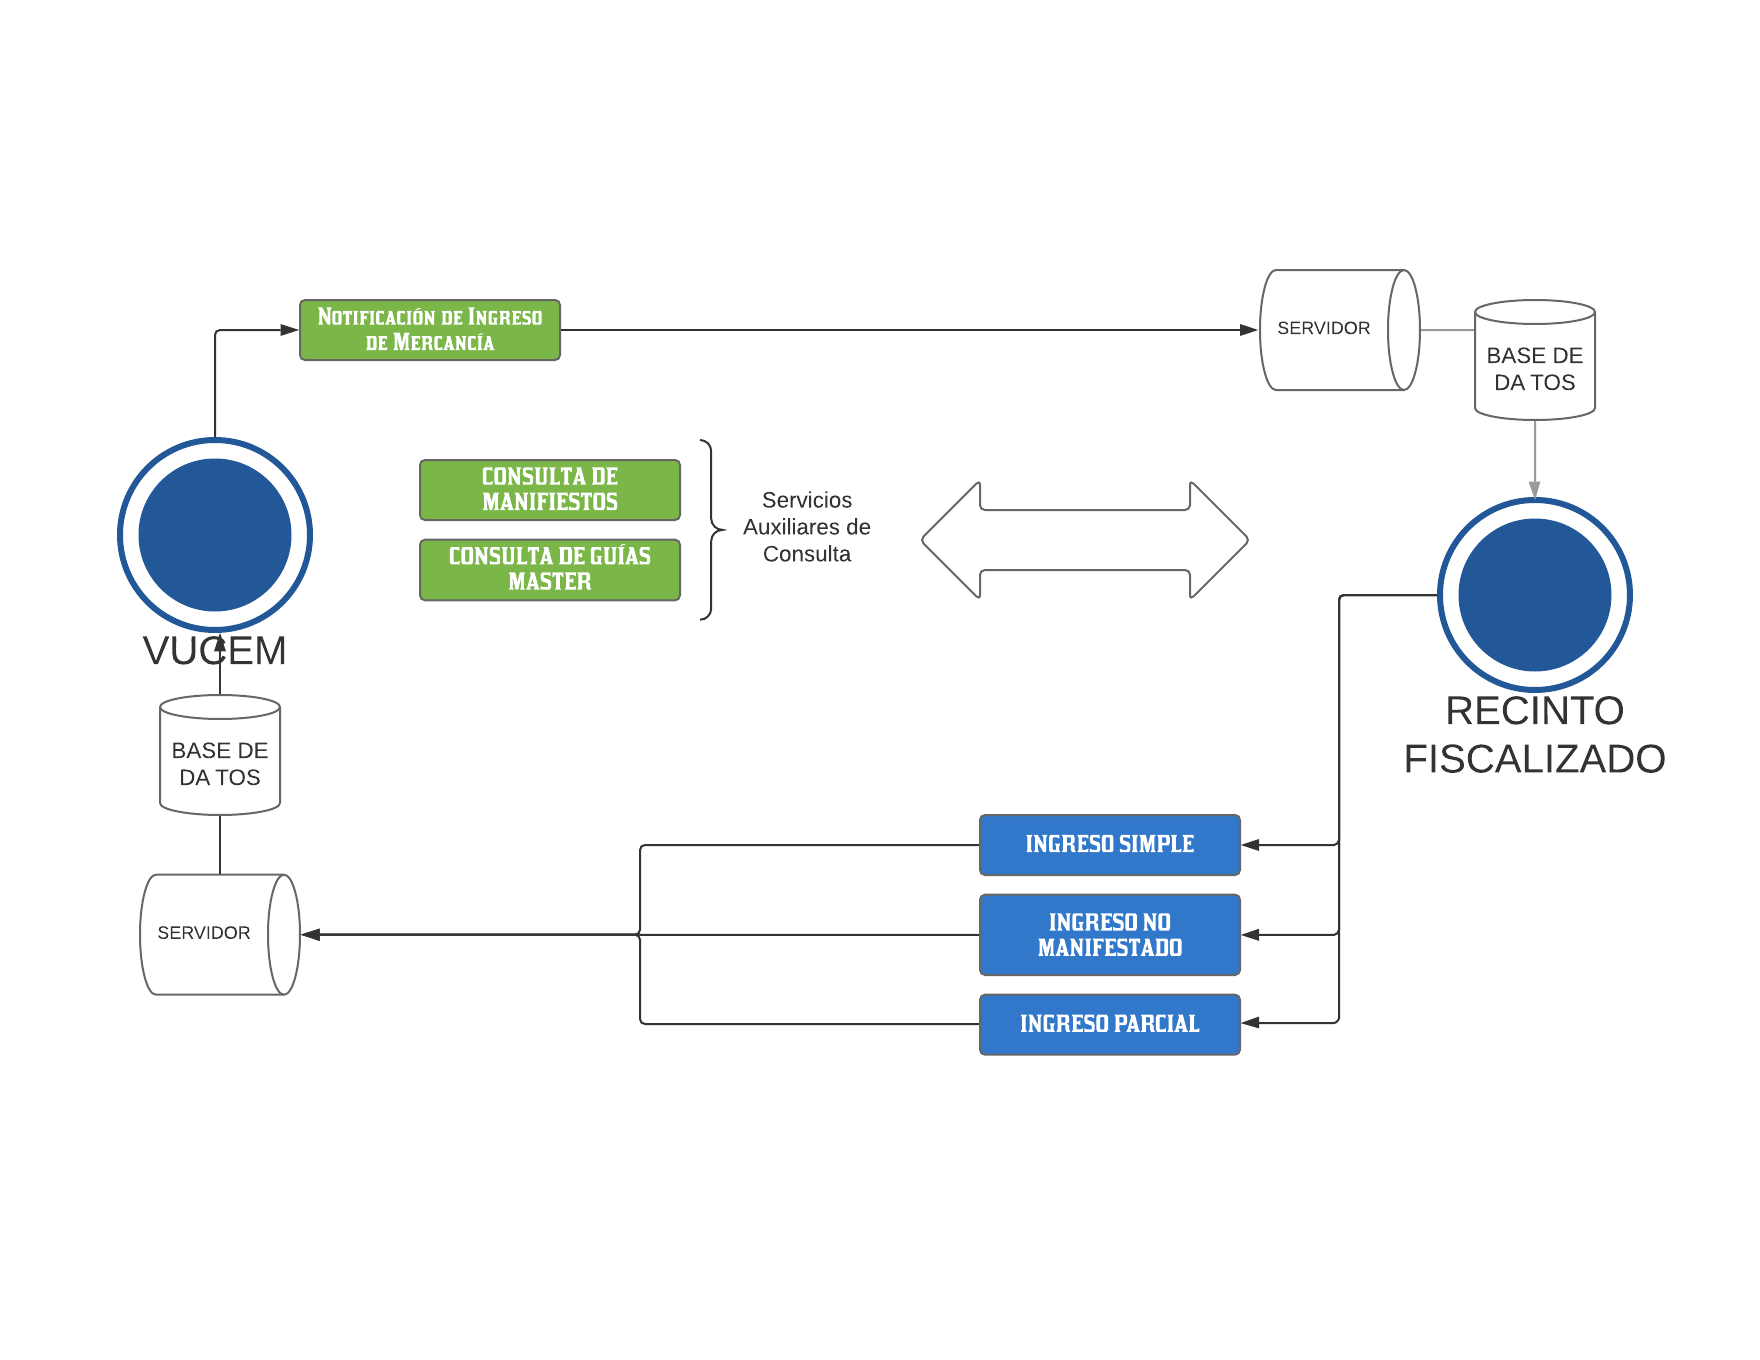
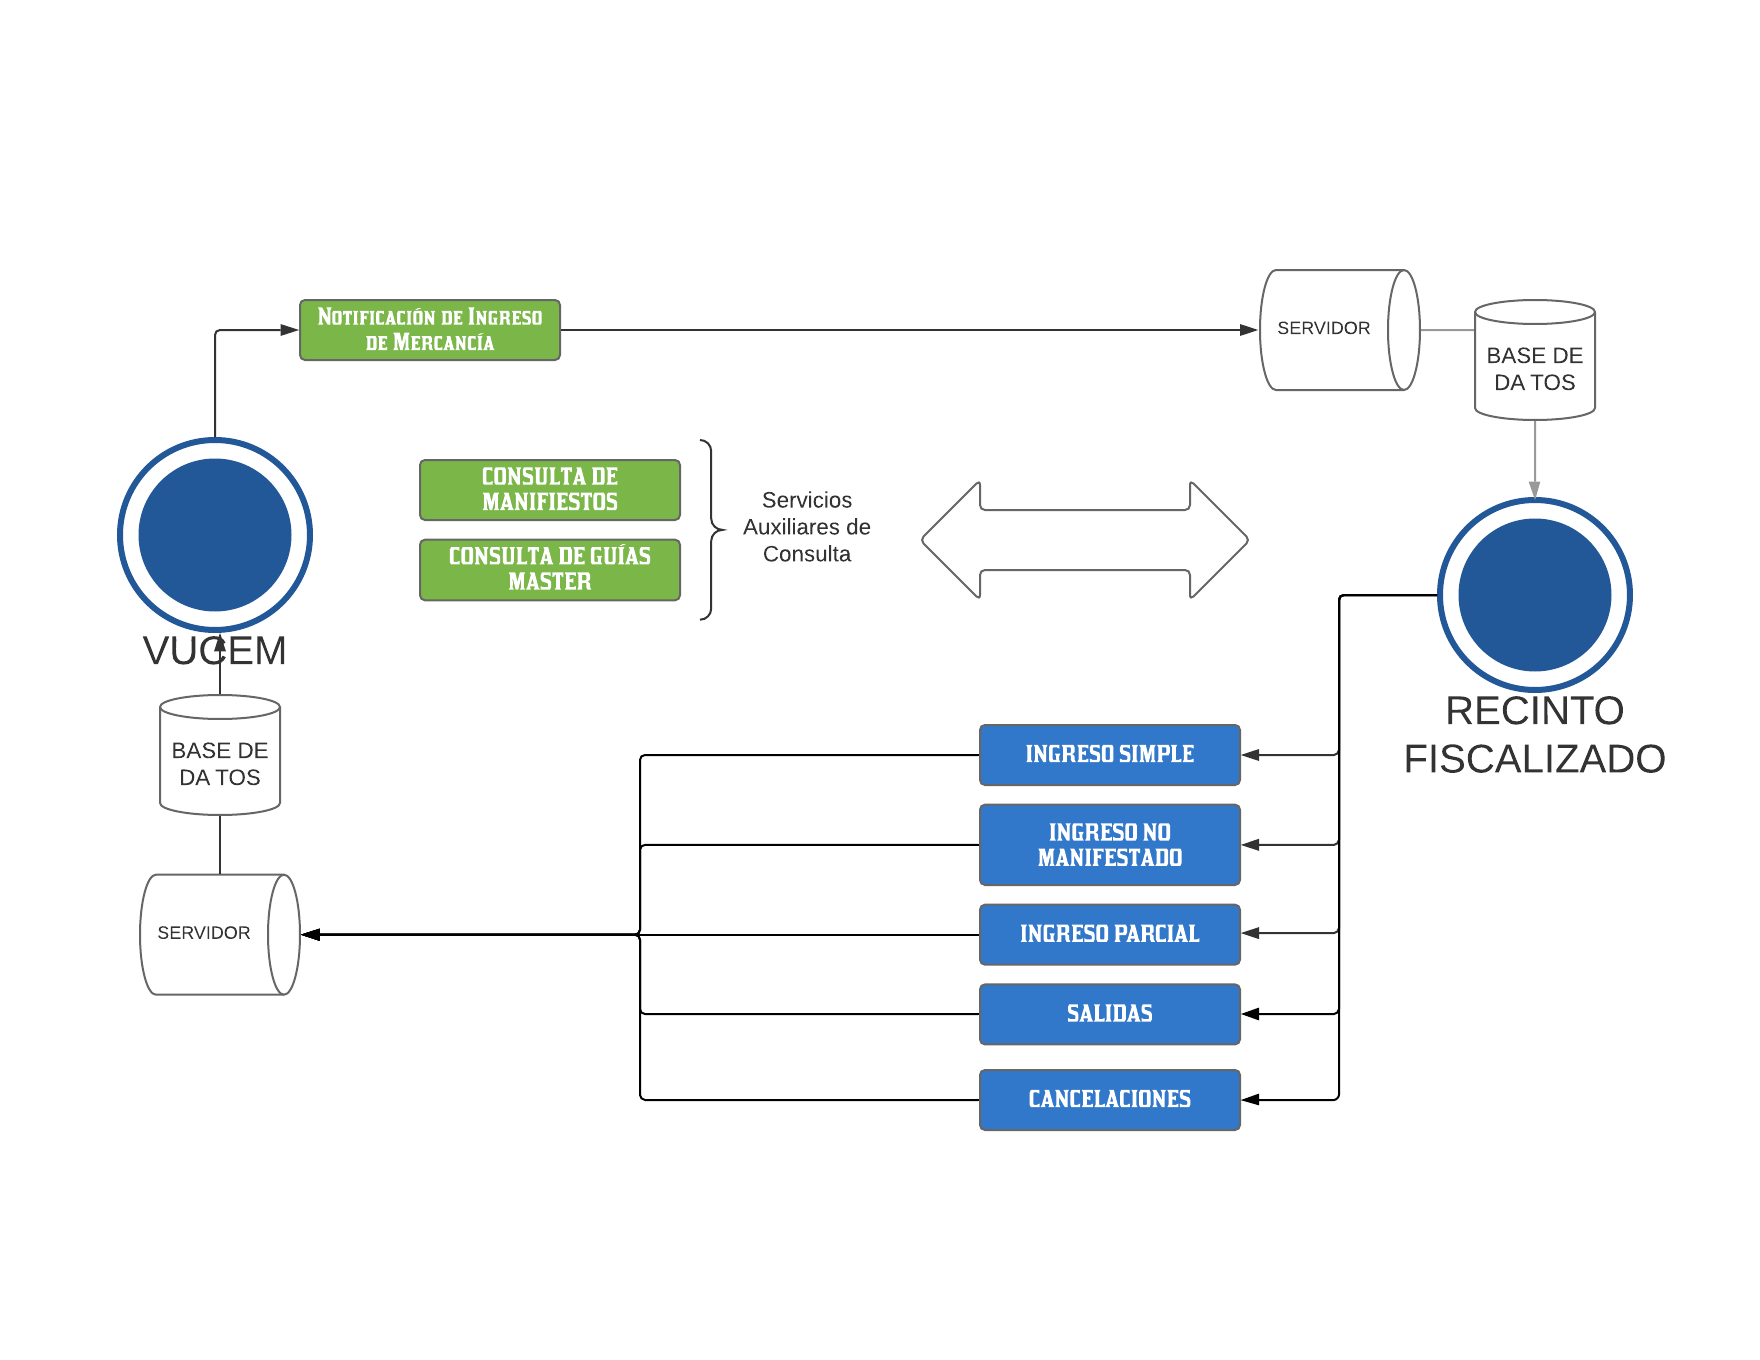
Update Sira 3.6.1
Actualización previa a la verificación de salidas y cancelaciones.

Changed region(s): [[0.375, 0.525, 0.75, 0.8338], [0.3438, 0.6794, 0.375, 0.7103]]

diff --git a/app/Http/Controllers/IngresoSimpleController.php b/app/Http/Controllers/IngresoSimpleController.php
@@ -37,7 +37,7 @@ class IngresoSimpleController extends Controller
         $this->username = Config::get('app.vucemsira.user');
         $this->password = Config::get('app.vucemsira.password');
         $this->camir = Config::get('app.vucemsira.camir');
-        $this->$endpoint = Config::get('app.vucemsira.endpoint_ingresos');
+        $this->endpoint = Config::get('app.vucemsira.endpoint_ingresos');
 
         // Seguridad
         $created = gmdate('Y-m-d\TH:i:s\Z');
@@ -102,8 +102,7 @@ class IngresoSimpleController extends Controller
                         //AQUÍ VA M = MASTER EN ESTE CASO
                         'tipoIngreso'=>'M'
                     ]
-                ],
-                ['informacionIngreso' =>
+                ,'informacionIngreso' =>
                     [
                         //AQUI VAN VALORES DE CATALOGO QUE ENVIA RF 1=3 DÍAS, 2=45 DÍAS, 3=60 DÍAS
                         'tipoMercancia'=>'',
@@ -130,6 +129,8 @@ class IngresoSimpleController extends Controller
     /*IngresoSimple por Guía House*/
     public function IngresoSimpleHouse(Request $request)
     {
+        //Ejemplo de Request:
+        //http://localhost/sira/IngresoSimple/House?tipoOperacion=1&guiasHouse=TRESABRIL27%2CCUATROABRIL27%2CCINCOABRIL27&consecutivo=20000006Q&idAsociado=20000006Q&fechaInicioDescarga=2020-08-14T09%3A11%3A32-05%3A00&fechaFinDescarga=2020-08-14T09%3A50%3A00-05%3A00&peso=301.0&condicionCarga=1
         $validator = Validator::make($request->all(), [
             'consecutivo' => 'required',
             'idAsociado' => 'required',
@@ -138,7 +139,7 @@ class IngresoSimpleController extends Controller
             'fechaFinDescarga' => 'required',
             'peso' => 'required',
             'condicionCarga' => 'required',
-            'guiaHouse' => 'required',
+            'guiasHouse' => 'required',
         ]);
 
         if ($validator->fails()) {
@@ -146,11 +147,15 @@ class IngresoSimpleController extends Controller
             return response()->json($response, JSON_UNESCAPED_UNICODE );
         }
 
+        $ArrayHouses = [];
+        $guiasHouse = explode(',', $request->guiasHouse);
+        for($i=0;$i<count($guiasHouse);$i++){
+            $ArrayHouses['guiasHouse'][] = ['guiaHouse'=>$guiasHouse[$i]];
+        }
+
         $observaciones = isset($request->observaciones) ? $request->observaciones : 'INGRESO SIMPLE POR HOUSE IMM RECINTO 262';
 
-        $data =
-            ['arg0'=>
-                ['informacionGeneral' =>
+        $informacionGeneral = ['informacionGeneral' =>
                     [
                         //AQUI VA EL CONSECUTIVO GENERADO POR EL EMISOR DE LA TRANSMISION
                         'consecutivo'=>$request->consecutivo,
@@ -169,8 +174,8 @@ class IngresoSimpleController extends Controller
                         //AQUÍ VA H = HOUSE EN ESTE CASO
                         'tipoIngreso'=>'H'
                     ]
-                ],
-                ['informacionIngreso' =>
+                ];
+        $informacionIngreso = ['informacionIngreso' =>
                     [
                         //AQUI VAN VALORES DE CATALOGO QUE ENVIA RF 1=3 DÍAS, 2=45 DÍAS, 3=60 DÍAS
                         'tipoMercancia'=>'',
@@ -185,18 +190,20 @@ class IngresoSimpleController extends Controller
                         //AQUÍ VAN LOS DETALLES DEL INGRESO DE LA MERCANCÍA
                         'observaciones'=>$observaciones
                     ]
-                ],
-                ['guiasHouse' =>
-                    [
-                        //AQUÍ VA LA GUÍA HOUSE QUE SE VA A INGRESAR
-                        'guiaHouse'=>$request->guiaHouse
-                    ]
-                ]
-            ];
+                ];
 
-        $call = $this->cliente->call('ingresoSimple',$data);
-        return response()->json($call, JSON_UNESCAPED_UNICODE );
-        //return response()->json($data, JSON_UNESCAPED_UNICODE);//Debuging Request        
+        $merge_request = array_merge(
+                $informacionGeneral,
+                $informacionIngreso,
+                $ArrayHouses
+        );
+
+        $data = ['arg0'=>$merge_request];
+
+
+        //$call = $this->cliente->call('ingresoSimple',$data);
+        //return response()->json($call, JSON_UNESCAPED_UNICODE );
+        return response()->json($data, JSON_UNESCAPED_UNICODE);//Debuging Request
     }
     /*end IngresoSimple por Guía House*/
 }

diff --git a/routes/web.php b/routes/web.php
@@ -63,7 +63,7 @@ use Illuminate\Support\Facades\Route;
     | IngresoNoManifestado
     |--------------------------------------------------------------------------
     */
-    Route::get('/IngresoNoManifestado','IngresoNoManifestadoController@IngresoNoManifestado')
+    Route::any('/IngresoNoManifestado','IngresoNoManifestadoController@IngresoNoManifestado')
         ->name('cliente.ingresonomanifestado');
     /*
     |--------------------------------------------------------------------------
@@ -76,10 +76,10 @@ use Illuminate\Support\Facades\Route;
     | IngresoParcial
     |--------------------------------------------------------------------------
     */
-    Route::get('/IngresoParcial/Master/','IngresoParcialController@IngresoParcialMaster')
+    Route::any('/IngresoParcial/Master/','IngresoParcialController@IngresoParcialMaster')
         ->name('cliente.ingresoparcial.master');
 
-    Route::get('/IngresoParcial/House','IngresoParcialController@IngresoParcialHouse')
+    Route::any('/IngresoParcial/House','IngresoParcialController@IngresoParcialHouse')
         ->name('cliente.ingresoparcial.house');
     /*
     |--------------------------------------------------------------------------
@@ -102,10 +102,10 @@ use Illuminate\Support\Facades\Route;
     | Salida Master
     |--------------------------------------------------------------------------
     */
-    Route::get('/Salida/Solicitud/Master','SalidasController@SolicitudSalidaMaster')
+    Route::any('/Salida/Solicitud/Master','SalidasController@SolicitudSalidaMaster')
         ->name('cliente.salida.solicitud.master');
 
-    Route::get('/Salida/Confirmacion/MasterDirecta','SalidasController@ConfirmacioSalidaMaster')
+    Route::any('/Salida/Confirmacion/MasterDirecta','SalidasController@ConfirmacioSalidaMaster')
         ->name('cliente.salida.confirmacion.master');
     /*
     |--------------------------------------------------------------------------
@@ -118,10 +118,10 @@ use Illuminate\Support\Facades\Route;
     | Salida House
     |--------------------------------------------------------------------------
     */
-    Route::get('/Salida/Solicitud/House','SalidasController@SolicitudSalidaHouse')
+    Route::any('/Salida/Solicitud/House','SalidasController@SolicitudSalidaHouse')
         ->name('cliente.salida.solicitud.house.directa');
 
-    Route::get('/Salida/Confirmacion/House','SalidasController@ConfirmacionSalidaHouse')
+    Route::any('/Salida/Confirmacion/House','SalidasController@ConfirmacionSalidaHouse')
         ->name('cliente.salida.confirmacion.house.directa');
     /*
     |--------------------------------------------------------------------------

diff --git a/app/Http/Controllers/ConsultaDetalleGuiaController.php b/app/Http/Controllers/ConsultaDetalleGuiaController.php
@@ -29,7 +29,7 @@ class ConsultaDetalleGuiaController extends Controller
         $this->username = Config::get('app.vucemsira.user');
         $this->password = Config::get('app.vucemsira.password');
         $this->camir = Config::get('app.vucemsira.camir');
-        $this->$endpoint = Config::get('app.vucemsira.endpoint_detalleguia');
+        $this->endpoint = Config::get('app.vucemsira.endpoint_detalleguia');
 
         // Seguridad
         $created = gmdate('Y-m-d\TH:i:s\Z');
@@ -63,7 +63,7 @@ class ConsultaDetalleGuiaController extends Controller
      */
     public function ConsultaDetalleGuia(Request $request)
     {
-        $data = ['arg0'=>['camir'=>$this->camir,'trafico'=>$this->trafico,'manifiesto'=>$request->manifiesto,'guiamaster'=>$request->guiaMaster]];
+        $data = ['arg0'=>['camir'=>$this->camir,'trafico'=>$this->trafico,'manifiesto'=>$request->manifiesto,'guiaMaster'=>$request->guiaMaster]];
         $call = $this->cliente->call('notificacionIngresoMercancia',$data);
         return response()->json($call, JSON_UNESCAPED_UNICODE );
     }

diff --git a/app/Http/Controllers/IngresoNoManifestadoController.php b/app/Http/Controllers/IngresoNoManifestadoController.php
@@ -36,7 +36,7 @@ class IngresoNoManifestadoController extends Controller
         $this->username = Config::get('app.vucemsira.user');
         $this->password = Config::get('app.vucemsira.password');
         $this->camir = Config::get('app.vucemsira.camir');
-        $this->$endpoint = Config::get('app.vucemsira.endpoint_ingresos');
+        $this->endpoint = Config::get('app.vucemsira.endpoint_ingresos');
 
         // Seguridad
         $created = gmdate('Y-m-d\TH:i:s\Z');
@@ -146,7 +146,9 @@ class IngresoNoManifestadoController extends Controller
                 ]
             ];
 
-
+            $call = $this->cliente->call('ingresoParcial',$data);
+            return response()->json($call, JSON_UNESCAPED_UNICODE );
+            //return response()->json($data, JSON_UNESCAPED_UNICODE);//Debuging Request
     }
     /*end IngresoNoManifestado*/
 }

diff --git a/app/Http/Controllers/IngresoParcialController.php b/app/Http/Controllers/IngresoParcialController.php
@@ -27,15 +27,16 @@ class IngresoParcialController extends Controller
     public $username;
     public $password;
     public $camir;
-    private $trafico = 'A';
-    PRIVATE $endpoint = 'https://201.151.252.116:9202/OperacionEntradaImpl/OperacionEntradaService';
+    public $endpoint;
     private $cliente;
+    private $trafico = 'A';
 
     public function __construct()
     {
         $this->username = Config::get('app.vucemsira.user');
         $this->password = Config::get('app.vucemsira.password');
         $this->camir = Config::get('app.vucemsira.camir');
+        $this->endpoint = Config::get('app.vucemsira.endpoint_ingresos');
 
         // Seguridad
         $created = gmdate('Y-m-d\TH:i:s\Z');

diff --git a/app/Http/Controllers/SalidasController.php b/app/Http/Controllers/SalidasController.php
@@ -36,7 +36,7 @@ class SalidasController extends Controller
         $this->username = Config::get('app.vucemsira.user');
         $this->password = Config::get('app.vucemsira.password');
         $this->camir = Config::get('app.vucemsira.camir');
-        $this->$endpoint = Config::get('app.vucemsira.endpoint_ingresos');
+        $this->endpoint = Config::get('app.vucemsira.endpoint_ingresos');
 
         // Seguridad
         $created = gmdate('Y-m-d\TH:i:s\Z');

diff --git a/README.md b/README.md
@@ -17,11 +17,27 @@
     * Entrega un **idAsociado** por **Master** y un **consecutivo** por **House** así como la información manifestada por la aerolínea que debe recibir el recinto fiscalizado.
 * ConsultaManifiestos (Cliente)
     * Sirve para conocer las guías máster referentes a un manifiesto declarado.
+    * Ejemplo de Request (METHOD GET / URL_ENCODED):
+    ```sh
+    http://localhost/sira/ConsultaManifiestos?manifiesto=026200020200508FFF
+    ```
 * ConsultaDetalleGuia (Cliente)
     * Sirve para conocer la última infomración de las guías master declaradas en un manifiesto.
+    * Ejemplo de Request (METHOD GET / URL_ENCODED):
+    ```sh
+    http://localhost/sira/ConsultaDetalleGuia?manifiesto=026200020200508FFF&guiaMaster=602-20200508
+    ```
 * IngresoSimple (Cliente)
     * Si llega la **master completa, sin guías house**, se debe utilizar **IngresoSimpleMaster**.
-    * Si llega la **master con guía house completa**, se debe utilizar **IngresoSimpleHouse** en la cual se deben ingresar todas las guías house.
+    * Ejemplo de Request por Guías Master (METHOD GET / URL_ENCODED):
+    ```sh
+    http://localhost/sira/IngresoSimple/Master?tipoOperacion=1&consecutivo=20000006Q&idAsociado=20000006Q&fechaInicioDescarga=2020-08-14T09%3A11%3A32-05%3A00&fechaFinDescarga=2020-08-14T09%3A50%3A00-05%3A00&peso=301.0&condicionCarga=1
+    ```
+    * Si llega la **master con guía houses completas**, se debe utilizar **IngresoSimpleHouse** en la cual se deben ingresar todas las guías house.
+    * Ejemplo de Request por Guías House (METHOD GET / URL_ENCODED):
+    ```sh
+    http://localhost/sira/IngresoSimple/House?tipoOperacion=1&guiasHouse=TRESABRIL27%2CCUATROABRIL27%2CCINCOABRIL27&consecutivo=20000006Q&idAsociado=20000006Q&fechaInicioDescarga=2020-08-14T09%3A11%3A32-05%3A00&fechaFinDescarga=2020-08-14T09%3A50%3A00-05%3A00&peso=301.0&condicionCarga=1
+    ```
 * IngresoNoManifestado (Cliente)
     * Si llega una **master que no fue manifestada**, se debe utilizar **IngresoNoManifestado**
 * IngresoParcial (Cliente)
@@ -40,7 +56,7 @@ $ php artisan migrate
 
 ### Créditos ###
 
-* Desarrollado por Cristian Vega @CristianVegaMx
+* Desarrollado por Cristian Vega @ZeroBytMx
 
 ### Licencia ###
 
